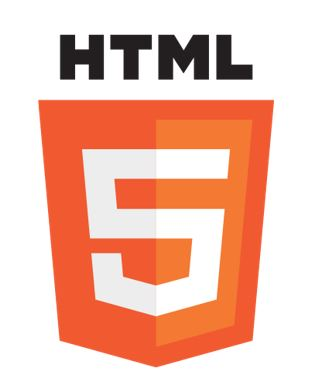
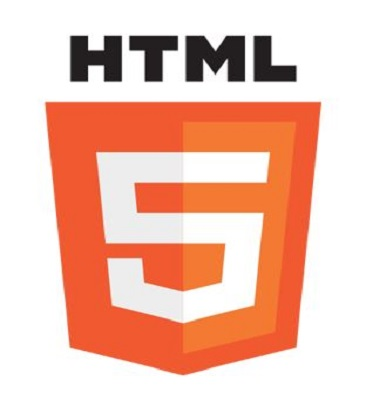
added 'projects I've done'section

diff --git a/index.html b/index.html
@@ -288,6 +288,26 @@
                 <img src="images/Taclo_logo.jpg" class="img-responsive img-circle" alt="About">
             </div>
         </div>
+        </br></br>
+
+        <!--Projects I've done-->
+        <div class="row">
+            <div class="col-md-9 col-sm-8 wow fadeInUp" data-wow-delay="0.2s">
+                <div class="about-thumb">
+
+                    <h1><i class="fa fa-code"></i> Projects I've done</h1>
+                    <p><strong>BIOS system | </strong> <a href="http://54.200.57.4/app/">link here</a> </br>
+                        <strong><span style="color:#6495ED"> AUG 2016 - NOV 2016 </span></strong></br>
+                    <p>
+                        •	Created a system similar to SMU's course bidding system with a team of 5 using the MVC framework </br>
+                        •	Managed the project from Requirements, Design, Code, Integration to System Testing using the Iterative process
+                </p>
+                </div>
+            </div>
+
+            <div class="col-md-3 col-sm-4 wow fadeInUp about-img animated" data-wow-delay="0.2s" style="visibility: visible; animation-delay: 0.2s; animation-name: fadeInUp;">
+                <img src="images/BIOS.png" class="img-responsive img-circle" alt="About">
+            </div>
 
 </div>
     </br><!--</div>-->
@@ -311,7 +331,7 @@
             <ul class="grid cs-style-4">
                 <li class="col-md-2 col-sm-2 col-xs-2">
                 <figure>
-                    <div><img src="images/html.JPG" alt="image 1"></div>
+                    <div><img style="object-fit: fill" src="images/html.JPG" alt="image 1"></div>
                     <figcaption>
                         <h3>HTML</h3>
                     </figcaption>
@@ -320,7 +340,7 @@
 
                 <li class="col-md-2 col-sm-2 col-xs-2">
                     <figure>
-                        <div><img src="images/css.JPG" alt="image 1"></div>
+                        <div><img style="object-fit: fill" src="images/css.JPG" alt="image 1"></div>
                         <figcaption>
                             <h3>CSS</h3>
                         </figcaption>
@@ -329,7 +349,7 @@
 
                 <li class="col-md-2 col-sm-2 col-xs-2">
                     <figure>
-                        <div><img src="images/js.JPG" alt="image 1"></div>
+                        <div><img style="object-fit: fill" src="images/js.JPG" alt="image 1"></div>
                         <figcaption>
                             <h3>JS</h3>
                         </figcaption>
@@ -337,7 +357,7 @@
                 </li>
                 <li class="col-md-2 col-sm-2 col-xs-2">
                     <figure>
-                        <div><img src="images/bootstrap_logo.png" alt="image 1"></div>
+                        <div><img style="object-fit: fill" src="images/bootstrap-logo.png" alt="image 1"></div>
                         <figcaption>
                             <h3>Twitter Bootstrap</h3>
                         </figcaption>
@@ -350,7 +370,7 @@
                 <ul class="grid cs-style-4">
                 <li class="col-md-2 col-sm-2 col-xs-2">
                     <figure>
-                        <div><img src="images/JSP.jpg" alt="image 1"></div>
+                        <div><img style="object-fit: fill" src="images/JSP.jpg" alt="image 1"></div>
                         <figcaption>
                             <h3>JSP</h3>
                         </figcaption>
@@ -358,7 +378,7 @@
                 </li>
                 <li class="col-md-2 col-sm-2 col-xs-2">
                     <figure>
-                        <div><img src="images/java.JPG" alt="image 1"></div>
+                        <div><img style="object-fit: fill" src="images/java.JPG" alt="image 1"></div>
                         <figcaption>
                             <h3>Java</h3>
                         </figcaption>
@@ -366,7 +386,7 @@
                 </li>
                 <li class="col-md-2 col-sm-2 col-xs-2">
                     <figure>
-                        <div><img src="images/mysql.JPG" alt="image 1"></div>
+                        <div><img style="object-fit: fill" src="images/mysql.JPG" alt="image 1"></div>
                         <figcaption>
                             <h3>MySQL</h3>
                         </figcaption>
@@ -374,7 +394,7 @@
                 </li>
                 <li class="col-md-2 col-sm-2 col-xs-2">
                     <figure>
-                        <div><img src="images/vba.JPG" alt="image 1"></div>
+                        <div><img style="object-fit: fill" src="images/vba.JPG" alt="image 1"></div>
                         <figcaption>
                             <h3>VBA</h3>
                         </figcaption>
@@ -382,7 +402,7 @@
                 </li>
                 <li class="col-md-2 col-sm-2 col-xs-2">
                     <figure>
-                        <div><img src="images/tomcat.jpg" alt="image 1"></div>
+                        <div><img style="object-fit: fill" src="images/tomcat.jpg" alt="image 1"></div>
                         <figcaption>
                             <h3>Tomcat</h3>
                         </figcaption>
@@ -390,7 +410,7 @@
                 </li>
                 <li class="col-md-2 col-sm-2 col-xs-2">
                     <figure>
-                        <div><img src="images/mvc_logo.gif" alt="image 1"></div>
+                        <div><img style="object-fit: fill" src="images/mvc_logo.gif" alt="image 1"></div>
                         <figcaption>
                             <h3>MVC Framework</h3>
                         </figcaption>
@@ -398,7 +418,7 @@
                 </li>
                 <li class="col-md-2 col-sm-2 col-xs-2">
                     <figure>
-                        <div><img src="images/git-logo.png" alt="image 1"></div>
+                        <div><img style="object-fit: fill" src="images/git-logo.png" alt="image 1"></div>
                         <figcaption>
                             <h3>Git</h3>
                         </figcaption>

diff --git a/css/component.css b/css/component.css
@@ -150,47 +150,48 @@
 	height: 12vw;
 	width: 12vw;
 	overflow: hidden;
-}
-.no-touch .cs-style-4 figure:hover img,
-.cs-style-4 figure.cs-hover img {
-	-webkit-transform: translateX(25%);
-	-moz-transform: translateX(25%);
-	-ms-transform: translateX(25%);
-	transform: translateX(25%);
-}
-.cs-style-4 figcaption {
-	height: 12vw;
-	width: 12vw;
-	opacity: 0;
-	-webkit-backface-visibility: hidden;
-	-moz-backface-visibility: hidden;
-	backface-visibility: hidden;
-	-webkit-transform-origin: 0 0;
-	-moz-transform-origin: 0 0;
-	transform-origin: 0 0;
-	-webkit-transform: rotateY(-90deg);
-	-moz-transform: rotateY(-90deg);
-	transform: rotateY(-90deg);
-	-webkit-transition: -webkit-transform 0.4s, opacity 0.1s 0.3s;
-	-moz-transition: -moz-transform 0.4s, opacity 0.1s 0.3s;
-	transition: transform 0.4s, opacity 0.1s 0.3s;
-}
+	
+	}
+	.no-touch .cs-style-4 figure:hover img,
+	.cs-style-4 figure.cs-hover img {
+		-webkit-transform: translateX(25%);
+		-moz-transform: translateX(25%);
+		-ms-transform: translateX(25%);
+		transform: translateX(25%);
+	}
+	.cs-style-4 figcaption {
+		height: 12vw;
+		width: 12vw;
+		opacity: 0;
+		-webkit-backface-visibility: hidden;
+		-moz-backface-visibility: hidden;
+		backface-visibility: hidden;
+		-webkit-transform-origin: 0 0;
+		-moz-transform-origin: 0 0;
+		transform-origin: 0 0;
+		-webkit-transform: rotateY(-90deg);
+		-moz-transform: rotateY(-90deg);
+		transform: rotateY(-90deg);
+		-webkit-transition: -webkit-transform 0.4s, opacity 0.1s 0.3s;
+		-moz-transition: -moz-transform 0.4s, opacity 0.1s 0.3s;
+		transition: transform 0.4s, opacity 0.1s 0.3s;
+	}
 
-.cs-style-4 figcaption h3{
-	font-size:11px;
-}
-.no-touch .cs-style-4 figure:hover figcaption,
-.cs-style-4 figure.cs-hover figcaption {
-	opacity: 1;
-	-webkit-transform: rotateY(0deg);
-	-moz-transform: rotateY(0deg);
-	transform: rotateY(0deg);
-	-webkit-transition: -webkit-transform 0.4s, opacity 0.1s;
-	-moz-transition: -moz-transform 0.4s, opacity 0.1s;
-	transition: transform 0.4s, opacity 0.1s;
-	height: 12vw;
-	width:12vw;
-}
+	.cs-style-4 figcaption h3{
+		font-size:11px;
+	}
+	.no-touch .cs-style-4 figure:hover figcaption,
+	.cs-style-4 figure.cs-hover figcaption {
+		opacity: 1;
+		-webkit-transform: rotateY(0deg);
+		-moz-transform: rotateY(0deg);
+		transform: rotateY(0deg);
+		-webkit-transition: -webkit-transform 0.4s, opacity 0.1s;
+		-moz-transition: -moz-transform 0.4s, opacity 0.1s;
+		transition: transform 0.4s, opacity 0.1s;
+		height: 12vw;
+		width:12vw;
+	}
 }
 
 @media screen and (max-width: 31.5em) {
